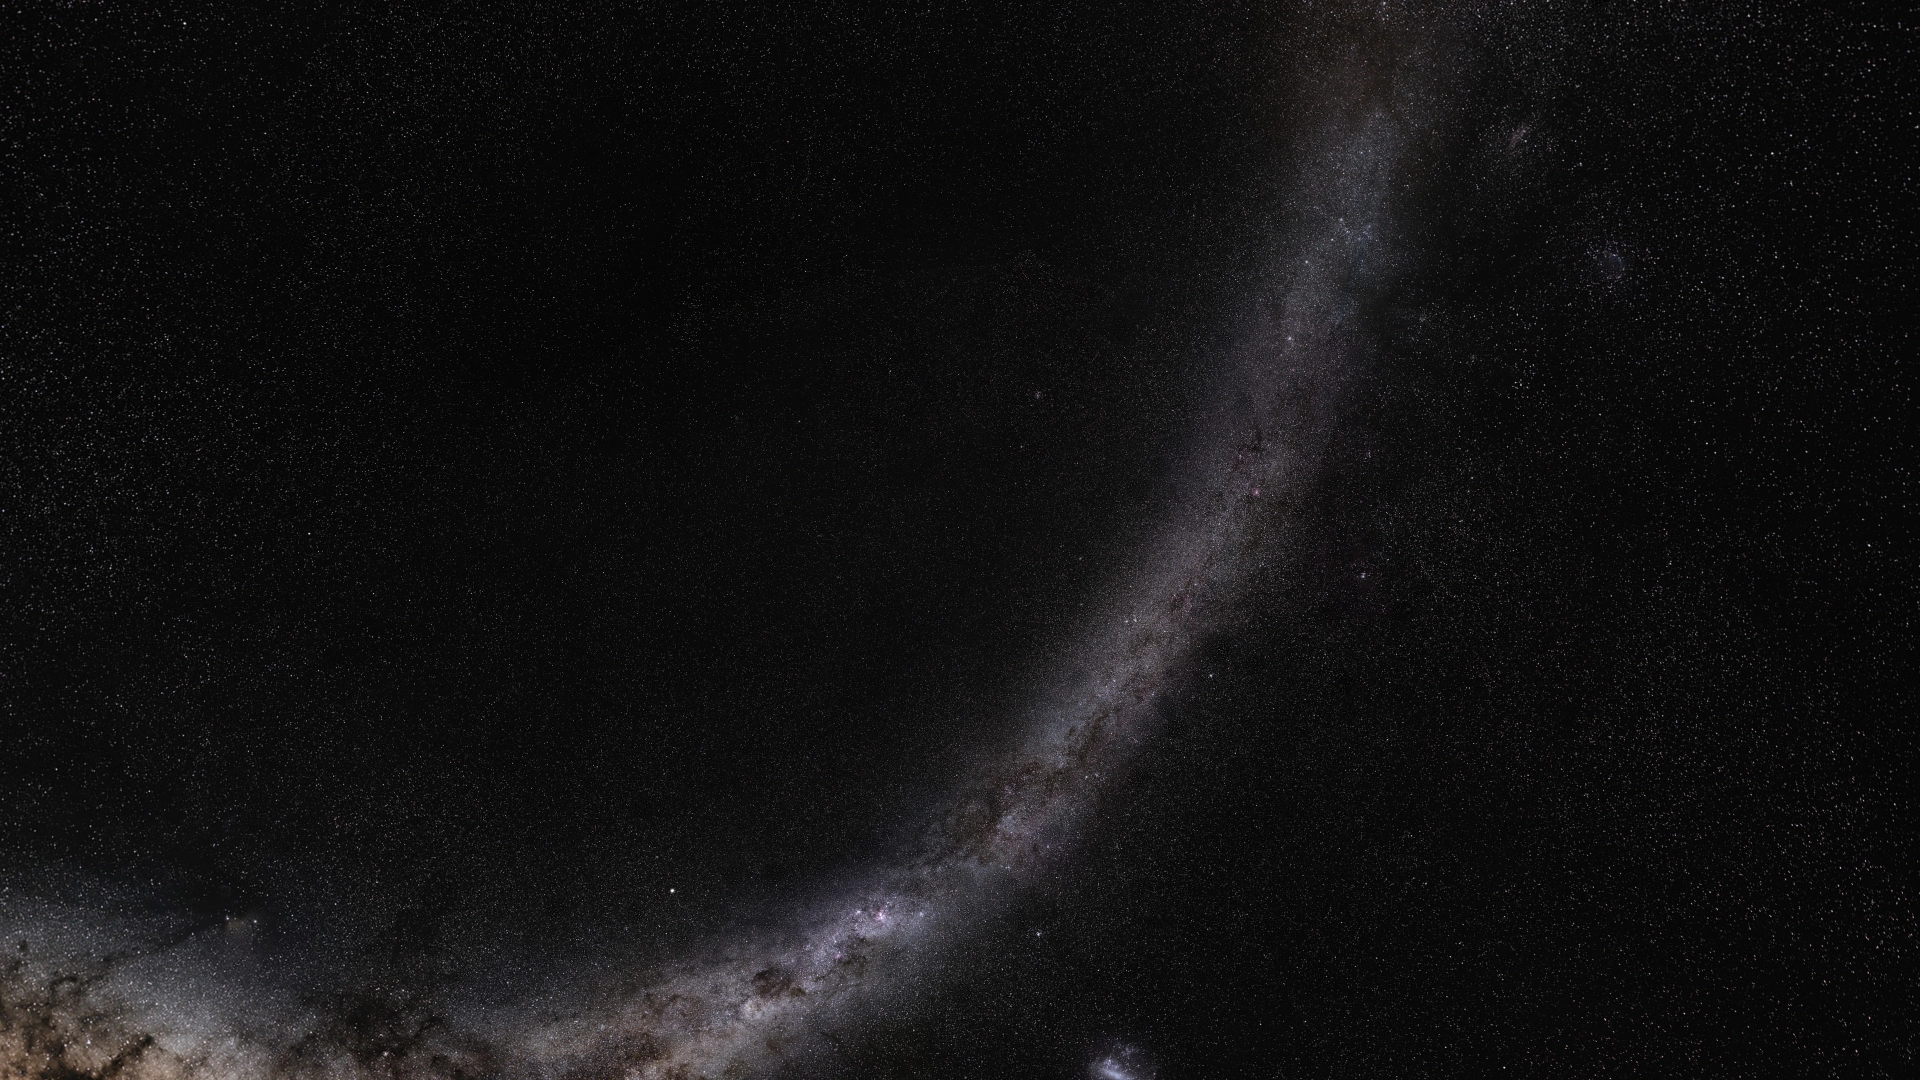
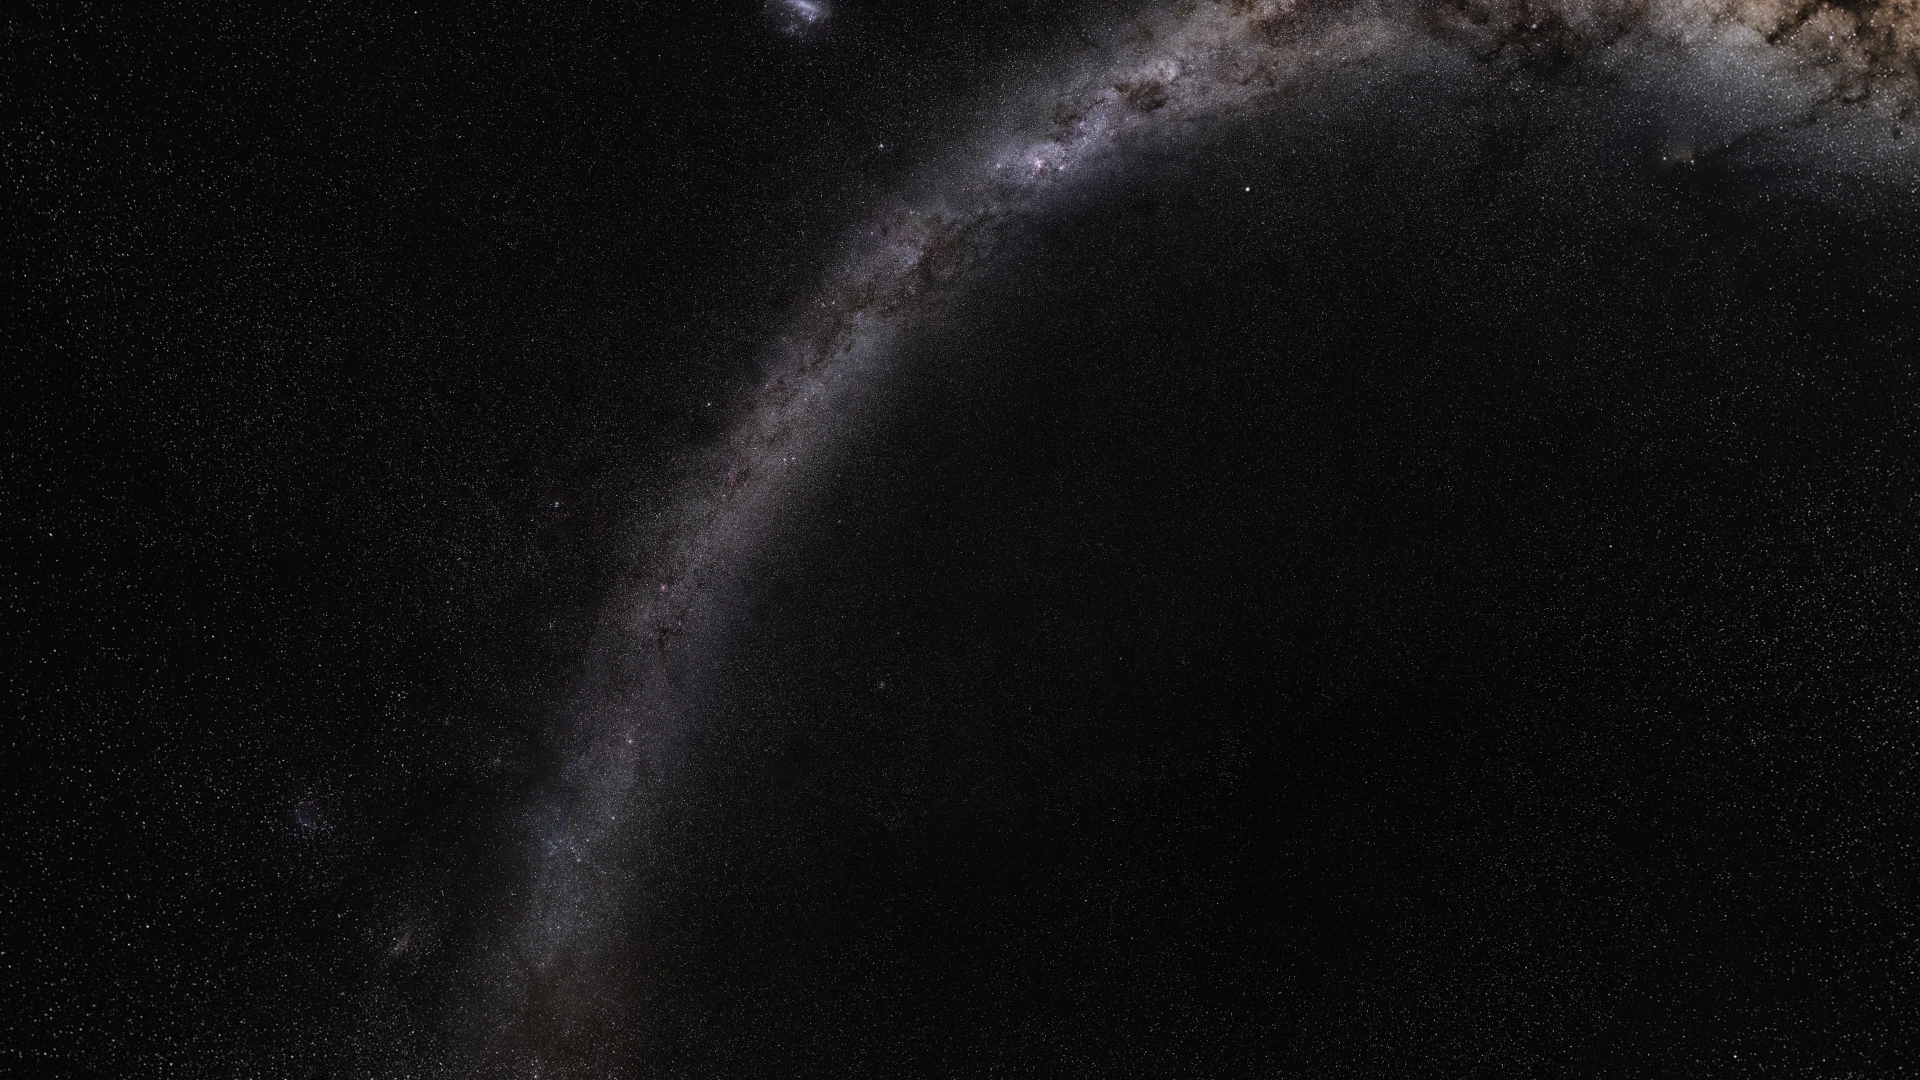
fix(hero): orient the night sky northward from Coquimbo

diff --git a/app/(home)/_sections/hero/capabilities/night-sky/sky-reference.ts b/app/(home)/_sections/hero/capabilities/night-sky/sky-reference.ts
@@ -1,14 +1,14 @@
 import type { StarCatalogRecord } from './star-catalog'
 
-/** Fixed projected region bbox used by the original mapper normalization. */
-export const REGION_BBOX = { xMin: -3.2244, xMax: 3.7127, yMin: -2.1081, yMax: 2.6389 } as const
-export const MARQUEE_BBOX = { xMin: -1.5954, xMax: 1.3308, yMin: -1.3565, yMax: 1.2747 } as const
-export const PORTRAIT_GROUP = { xMin: -0.7921, xMax: 0.4022, gcx: -0.2283 } as const
+/** Projected bounds in the north-facing orientation from Coquimbo (180° from the original). */
+export const REGION_BBOX = { xMin: -3.7127, xMax: 3.2244, yMin: -2.6389, yMax: 2.1081 } as const
+export const MARQUEE_BBOX = { xMin: -1.3308, xMax: 1.5954, yMin: -1.2747, yMax: 1.3565 } as const
+export const PORTRAIT_GROUP = { xMin: -0.4022, xMax: 0.7921, gcx: 0.2283 } as const
 
-/** Executable pre-change computeSkyCrop(16/9) composition in projected y-up units. */
+/** Same 16:9 artwork and portrait star group, expressed in the rotated projected frame. */
 export const SKY_REFERENCE = {
-  x0: -2.6601222222222223,
-  y0: -1.4565,
+  x0: -2.7829,
+  y0: -1.6052,
   width: 5.443022222222221,
   height: 3.0617,
   aspect: 16 / 9
@@ -24,7 +24,7 @@ const DEC0 = PROJECTION_TANGENT.decDegrees * DEG_TO_RAD
 const SIN_DEC0 = Math.sin(DEC0)
 const COS_DEC0 = Math.cos(DEC0)
 
-/** Preserve the mapper's original stereographic projection and mirrored x axis. */
+/** Stereographic projection oriented to match the north-facing photograph and raster fallback. */
 export function projectStar(record: StarCatalogRecord): readonly [number, number] {
   const ra = record.ra * 15 * DEG_TO_RAD
   const dec = record.dec * DEG_TO_RAD
@@ -35,5 +35,5 @@ export function projectStar(record: StarCatalogRecord): readonly [number, number
   const scale = 2 / (1 + cosC)
   const x = scale * cosDec * Math.sin(deltaRa)
   const y = scale * (COS_DEC0 * sinDec - SIN_DEC0 * cosDec * Math.cos(deltaRa))
-  return [-x, y]
+  return [x, -y]
 }

diff --git a/app/(home)/_sections/hero/capabilities/night-sky/sky-assets.ts b/app/(home)/_sections/hero/capabilities/night-sky/sky-assets.ts
@@ -1,13 +1,13 @@
+import photo1x from '../../../../../../public/images/hero/sky/t16-left-r1/background-1x.webp'
+import photo2x from '../../../../../../public/images/hero/sky/t16-left-r1/background-2x.webp'
+import fallback1x from '../../../../../../public/images/hero/sky/composite-2087-r1/composite-1x.webp'
+import fallback2x from '../../../../../../public/images/hero/sky/composite-2087-r1/composite-2x.webp'
 import { SKY_REFERENCE } from './sky-reference'
 
 export const nightSkyAssets = {
-  photo1x: '/images/hero/sky/t16-left-r1/background-1x.webp',
-  photo2x: '/images/hero/sky/t16-left-r1/background-2x.webp',
-  // Inline the tiny preview so the first paint needs no extra image request; runtime uses this data URL.
[1 lines of base64/hex data omitted]
-  fallback1x: '/images/hero/sky/composite-2087-r1/composite-1x.webp',
-  fallback2x: '/images/hero/sky/composite-2087-r1/composite-2x.webp',
-  width: 1920,
-  height: 1080,
+  photo1x,
+  photo2x,
+  fallback1x,
+  fallback2x,
   bounds: SKY_REFERENCE
 } as const

diff --git a/app/(home)/_sections/hero/capabilities/night-sky/index.tsx b/app/(home)/_sections/hero/capabilities/night-sky/index.tsx
@@ -30,36 +30,30 @@ export function HeroSky() {
           className={cn(skyPlaneClasses, 'invisible [[data-hero-sky-photo-error=true]_&]:hidden')}
           data-hero-sky-photo-plane
         >
-          <source media="(min-resolution: 1.01dppx)" srcSet={nightSkyAssets.photo2x} />
+          <source media="(min-resolution: 1.01dppx)" srcSet={nightSkyAssets.photo2x.src} />
           <Image
             data-hero-sky-photo
             className="absolute inset-0 block size-full max-w-none"
             src={nightSkyAssets.photo1x}
-            width={nightSkyAssets.width}
-            height={nightSkyAssets.height}
             alt=""
             aria-hidden="true"
             decoding="async"
             loading="eager"
             fetchPriority="high"
             placeholder="blur"
-            blurDataURL={nightSkyAssets.photoPreview}
             unoptimized
           />
         </picture>
         <picture>
-          <source media="(min-resolution: 1.01dppx)" srcSet={nightSkyAssets.fallback2x} />
+          <source media="(min-resolution: 1.01dppx)" srcSet={nightSkyAssets.fallback2x.src} />
           <Image
             data-hero-sky-fallback
             src={nightSkyAssets.fallback1x}
-            width={nightSkyAssets.width}
-            height={nightSkyAssets.height}
             alt=""
             aria-hidden="true"
             decoding="async"
             loading="eager"
             placeholder="blur"
-            blurDataURL={nightSkyAssets.photoPreview}
             unoptimized
             className={cn(skyPlaneClasses, 'visible data-[hero-sky-fallback-visible=false]:invisible')}
           />

diff --git a/tools/hero-sky-prototype/README.md b/tools/hero-sky-prototype/README.md
@@ -1,12 +1,14 @@
 # Current hero sky and raster fallback
 
-The live catalogue contains 2,087 stars after removing 2,579 mapped profiles through 2 CSS px: 955 at ≤1.5 px, 911 in inclusive [1.5, 1.75] px, and 713 in inclusive [1.75, 2] px. Original row ordinals preserve retained phases, sizes, alpha, speeds and colors. The photo URLs retain the user's final manual WebP exports in `t16-left-r1`; the source photographs are not rewritten.
+The live catalogue contains 2,087 stars after removing 2,579 mapped profiles through 2 CSS px: 955 at ≤1.5 px, 911 in inclusive [1.5, 1.75] px, and 713 in inclusive [1.75, 2] px. Original row ordinals preserve retained phases, sizes, alpha, speeds and colors. The active WebPs in `t16-left-r1` and `composite-2087-r1` are the user's final photo exports and existing composites rotated 180° for an illustrative view looking north from Coquimbo. No photographic reconstruction or star recomposition is involved; original source photographs and historical assets remain unchanged. Saving the rotated WebPs requires lossy re-encoding (photo quality 95, composite quality 75, method 6), with the original 1×/2× dimensions preserved.
 
 ## Runtime presentation
 
-`HeroSky` declares a photograph plane, one full-image raster fallback and the WebGL canvas. The photograph and fallback each use Next `Image` inside native `picture` with manual 1×/2× selection, `unoptimized`, eager loading and the existing inline blur preview. No SVG participates in the live fallback.
+`HeroSky` declares a photograph plane, one full-image raster fallback and the WebGL canvas. The photograph and fallback each use Next `Image` inside native `picture` with manual 1×/2× selection, `unoptimized` and eager loading. Static image imports supply dimensions and build-time blur metadata; the 2× `source` uses the imported asset's `.src`. There is no manually stored base64 preview. No SVG participates in the live fallback.
 
 Before the first valid draw, without JavaScript/WebGL, with reduced motion, after context loss/draw failure, or after a photograph error, only the opaque composite image is visible. The live photo and canvas are hidden. A valid draw shows the photo + canvas and hides the composite; all planes keep the same artwork crop. The single group fade stays 0.12→1 by progress 0.7 and canvas opacity stays 1. No custom React effects or loading callbacks are added.
+
+The shared stereographic projection and its region/artwork/portrait bounds use the same 180° orientation as the files. This preserves the previous rotated appearance at every aspect ratio, including the off-center portrait star group. Neither the artwork nor the badge coordinates apply a separate rotation; labels consume the same mapped star positions as the renderer and remain upright.
 
 ## Archived data and offline tools
 
@@ -35,7 +37,7 @@ The Python CLI requires `--input` and `--output`; `--help` describes them. It re
 
 The original 4,666-star SVG and earlier 3,711/2,800-star outputs remain historical; their public files and immutable evidence are not refreshed. The retired 2,087-star SVG/manifest move to the documented archive without changing their bytes. Historical photo approval hashes predate the user's manual retouch and are not hashes of the current public WebPs. The user-deleted photo manifest is not recreated.
 
-No new tests, lint/type/build checks or browser/visual verification were run, as requested. Asset generation is not runtime validation or manual approval.
+The original raster-generation delivery did not run new tests, lint/type/build checks or browser/visual verification, as requested at that time. Asset generation is not runtime validation or manual approval.
 
 ## Historical approved delivery (`t13-texture-r1`)
 
